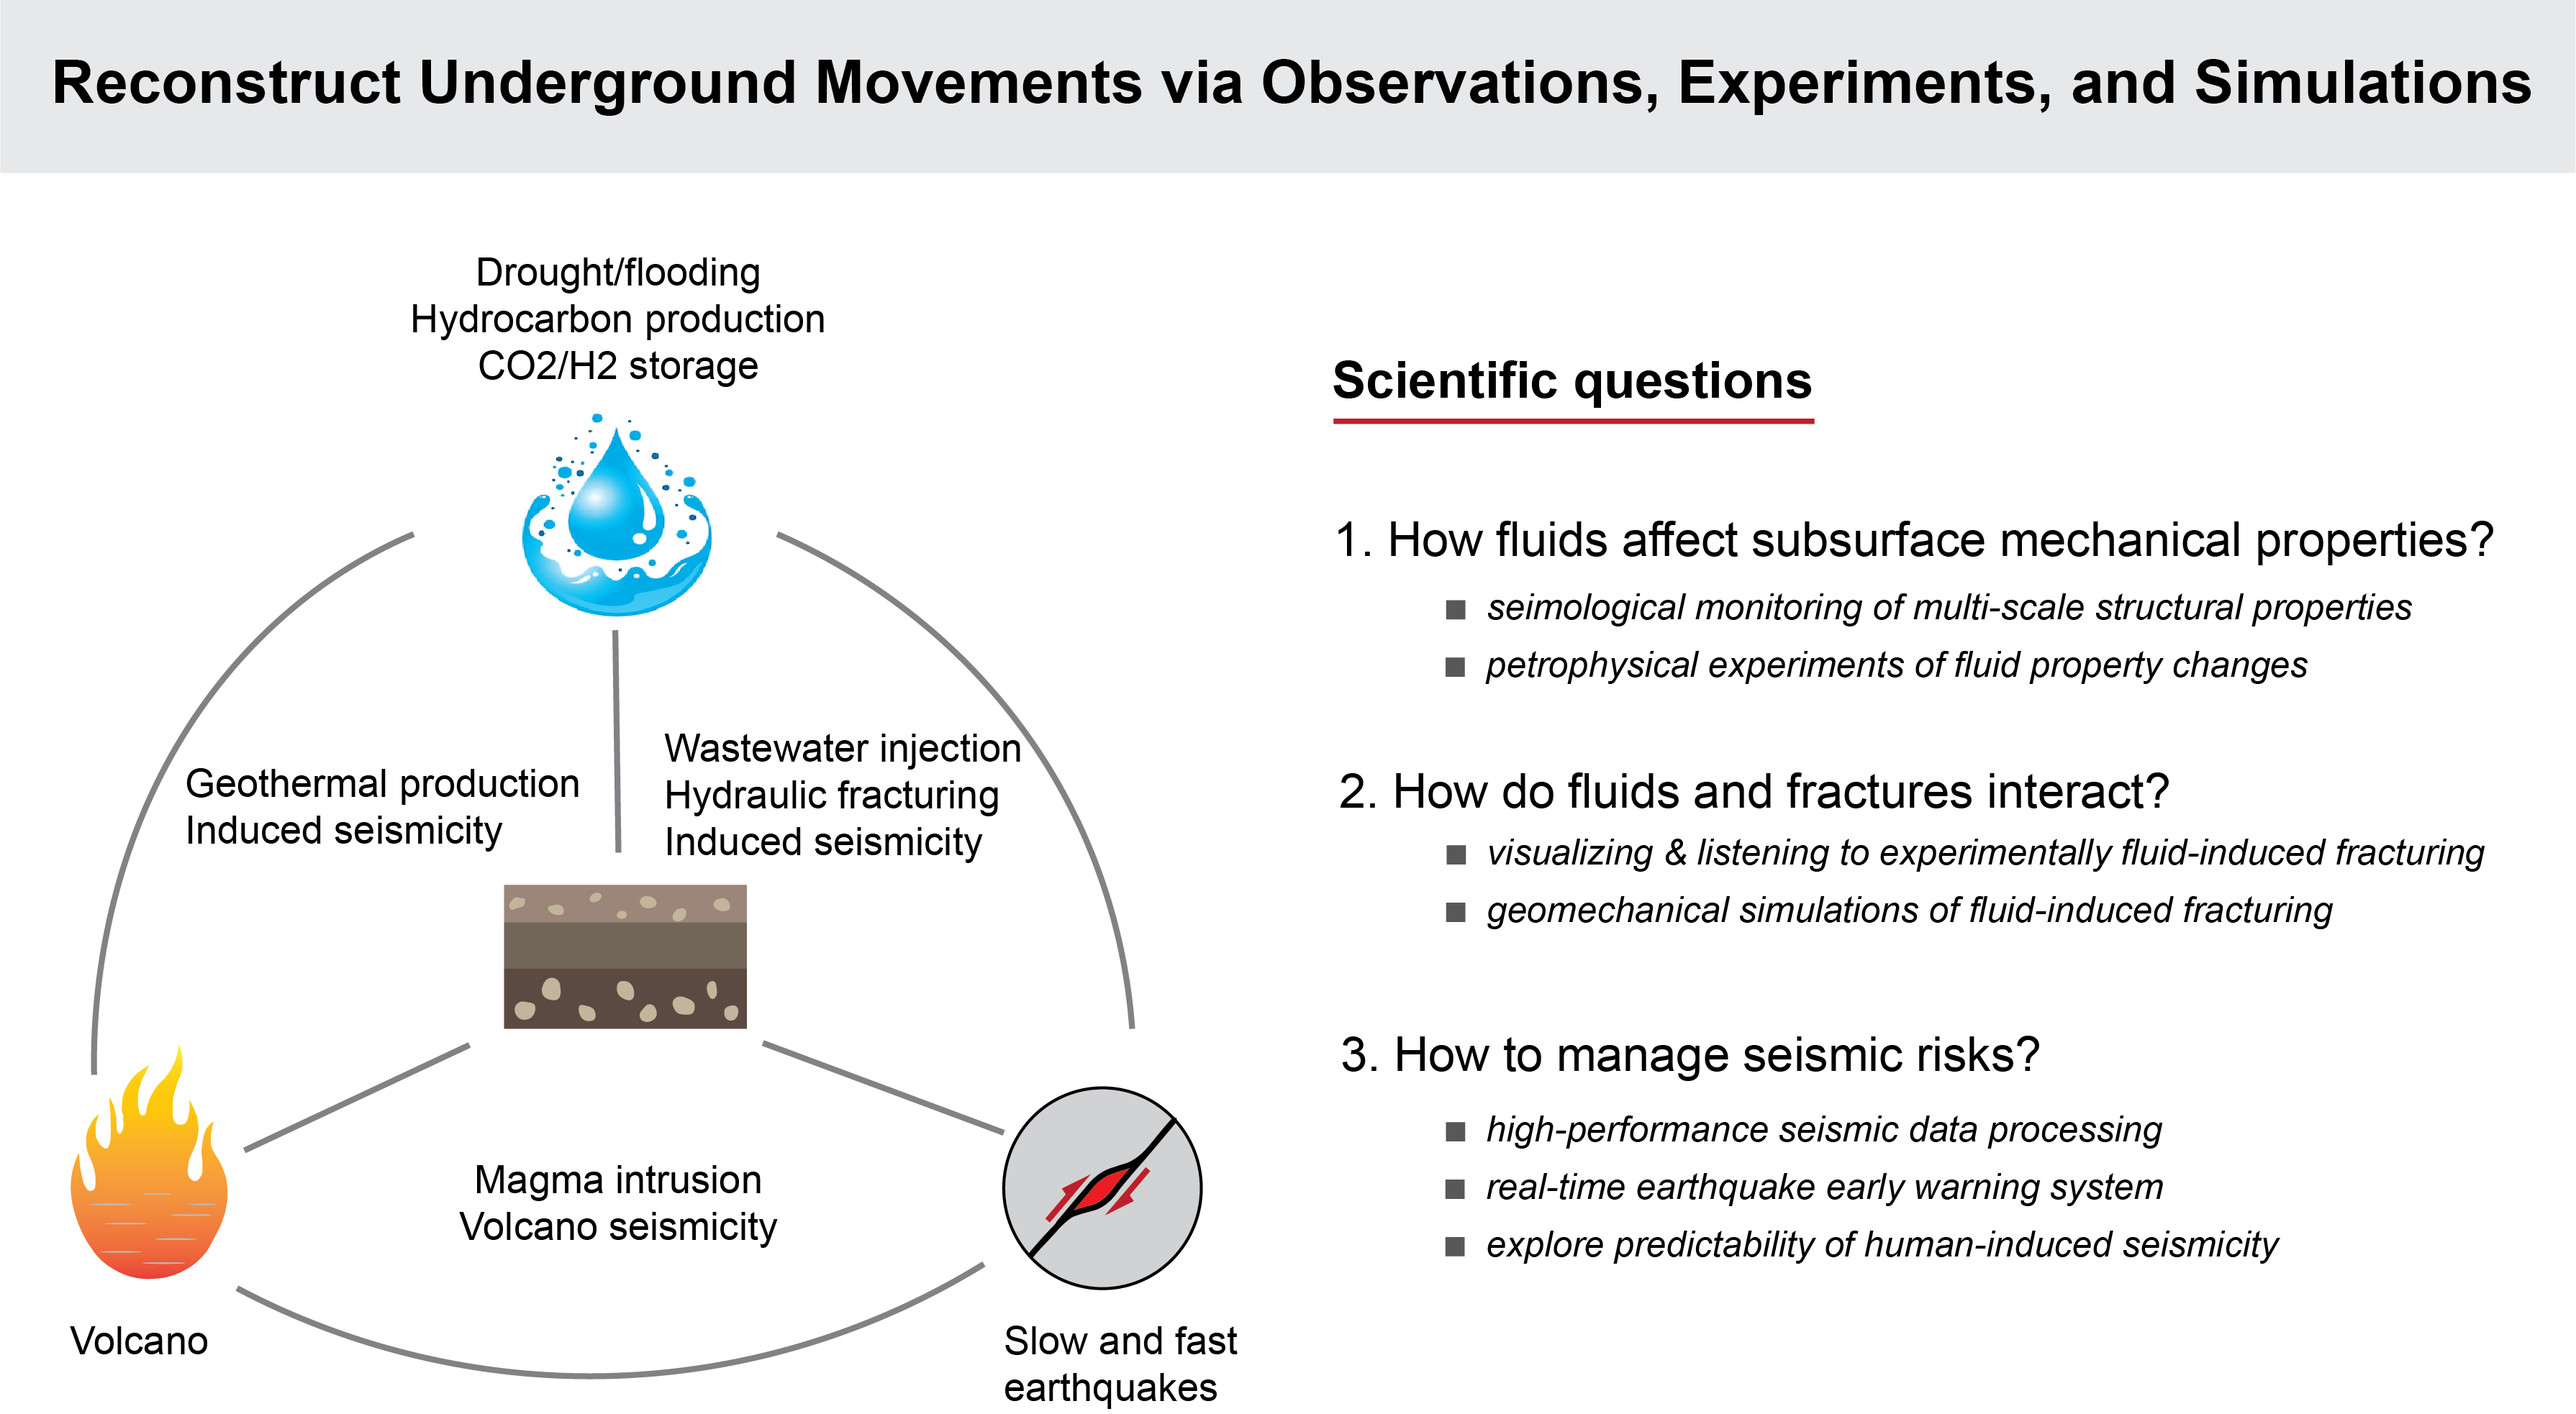
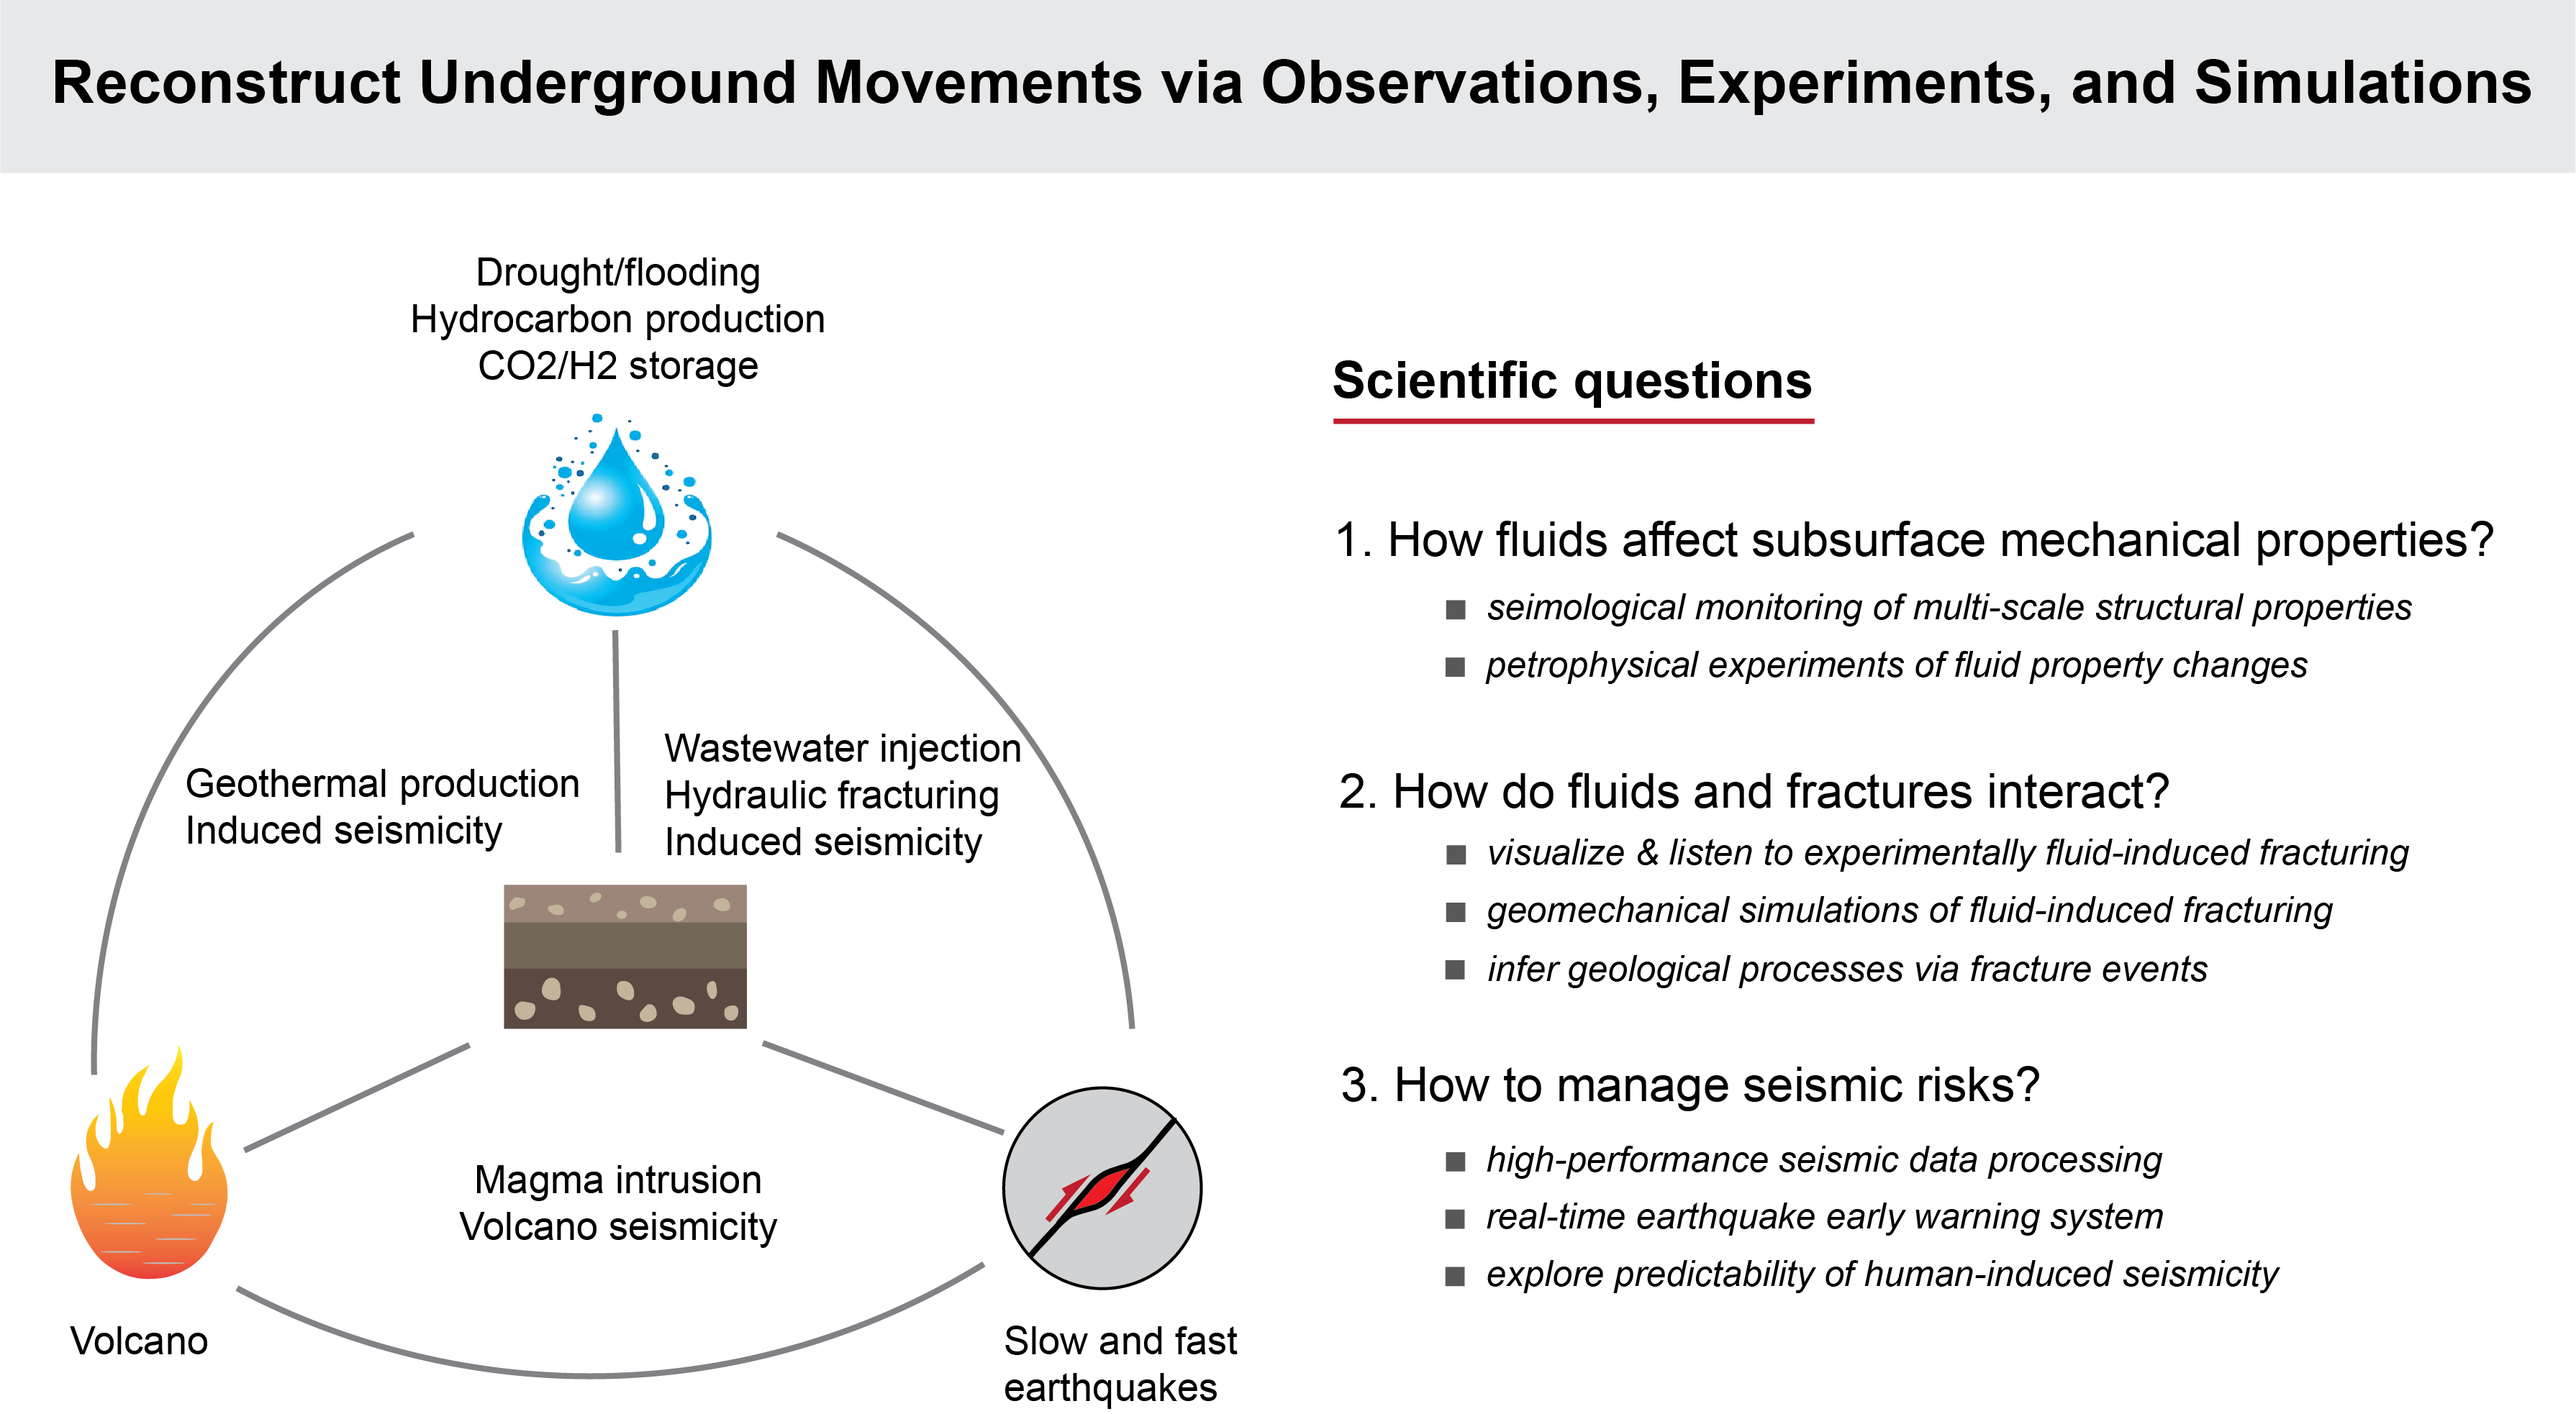
update pub

Changed region(s): [[0.5271, 0.6826, 0.8992, 0.9308], [0.6201, 0.5895, 0.9612, 0.6205]]

diff --git a/_pages/publications.md b/_pages/publications.md
@@ -12,13 +12,13 @@ Note: (*) denotes the corresponding author. Check out my [google scholar](https:
 - **Yuan*, C.**, & Zhang, J., Ensemble Learning for Earthquake First-Motion Polarity Determination. [In preparation]
 - **Yuan*, C.**, Lin, Y., Denolle, M. & Shaw, J. Reconstructing Seismograms via Self-supervised Learning. [In preparation]
 - **Yuan*, C.**, Cochard, T., Denolle, M., Gomberg, J., Wech, A., Xiao, X. & Weitz, D., Laboratory Hydrofractures as Analogs to Tectonic Tremors. [In review]
-- Cochard, T., Svetlizky, I., Albertini, G., Viesca, R., **Yuan, C.**, Denolle, M., Song, Y., Xiao, L. & Weitz*, D. Unexpected Dynamics in the Propagation of Fracture Fronts. Nature Physics. [In review]
+- Cochard, T., Svetlizky, I., Albertini, G., Viesca, R., **Yuan, C.**, Denolle, M., Song, Y., Xiao, L. & Weitz*, D. Unexpected Dynamics in the Propagation of Fracture Fronts. Nature Physics. [Accepted]
 
 ## Peer-reviewed Articles (12)
 
 ---
-- **Yuan*, C.**, Ni, Y., Lin, Y. & Denolle, M. (2023) Better Together: Ensemble Learning for Earthquake Detection and Phase Picking. IEEE TGRS. [In press]
-- Kuang, W., **Yuan, C.**, Zhang, J. & Zhang*, W. (2023) Autonomous Earthquake Location via Deep Reinforcement Learning. Seismological Research Letter. [In press]
+- **Yuan*, C.**, Ni, Y., Lin, Y. & Denolle, M. (2023) Better Together: Ensemble Learning for Earthquake Detection and Phase Picking. EEE Transactions on Geoscience and Remote Sensing, 61. [**doi:** [https:10.1109/TGRS.2023.3320148](https:10.1109/TGRS.2023.3320148)]
+- Kuang, W., **Yuan, C.**, Zou, Z., Zhang, J. & Zhang*, W. (2023) Autonomous Earthquake Location via Deep Reinforcement Learning. Seismological Research Letter. [**doi:** [https:doi.org/10.1785/0220230118](https:doi.org/10.1785/0220230118)]
 - Kuang, W., **Yuan, C.,** Zhang, J. & Zhang*, W. (2022) Relative Inversion Improves the Accuracy of Earthquake Focal Mechanisms. Seismological Research Letter. [**doi:** [https://doi.org/10.1785/0220210370](https://doi.org/10.1785/0220210370)]
 - Yang, Z., **Yuan, C.** & Denolle*, M. (2022) Detecting Elevated Pore Pressure in the Guy-Greenbrier Fault Zone using Ambient Noise Monitoring. The Seismic Record. [**doi:** [10.1785/0320210036](https://doi.org/10.1785/0320210036)]
 - **Yuan*, C.**, Bryan, J. & Denolle, M. A. (2021) Numerical comparison of time-, frequency-, and wavelet-domain methods for coda wave interferometry. Geophysical Journal International. [**doi:** [10.1093/gji/ggab140](https://doi.org/10.1093/gji/ggab140)].

diff --git a/_pages/about.md b/_pages/about.md
@@ -17,10 +17,12 @@ Aside from the research, I prefer music, basketball, and hiking for my entertain
 
 ## Recent News
 
-### 📅 ** April 17, 2023**
+<!-- ### 📅 ** April 17, 2023** -->
 
 🎉 **Exciting Announcement!**
-📢 Excited to announce that I'll be presenting two posters at the SSA conference this Wednesday! 🌟 Join in me exploring ELEP and SmartFilter for earthquake data processing. Can't wait to share our progress and connect with fellows. #SSA23
+📢 I'll be presenting a talk at the AGU conference on December 12th! 🌟 [Here](link) is the early-released talk I recorded. #[AGU2023](https://www.agu.org/fall-meeting)-[T22A-06](https://agu.confex.com/agu/fm23/meetingapp.cgi/Paper/1297631)
+
+<!-- 📢 Excited to announce that I'll be presenting two posters at the SSA conference this Wednesday! 🌟 Join in me exploring ELEP and SmartFilter for earthquake data processing. Can't wait to share our progress and connect with fellows. #SSA23 -->
 
 <!-- I'm thrilled to announce that I've migrated my personal website from [Notion version](https://www.notion.so/congcongyuan/Congcong-Yuan-ec3bd07b959c42978e6e90d41b4f75b9?pvs=4) to this new version. Stay tuned for more updates! -->
 
